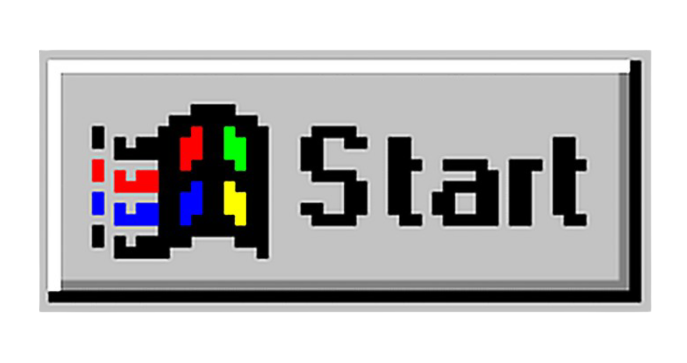
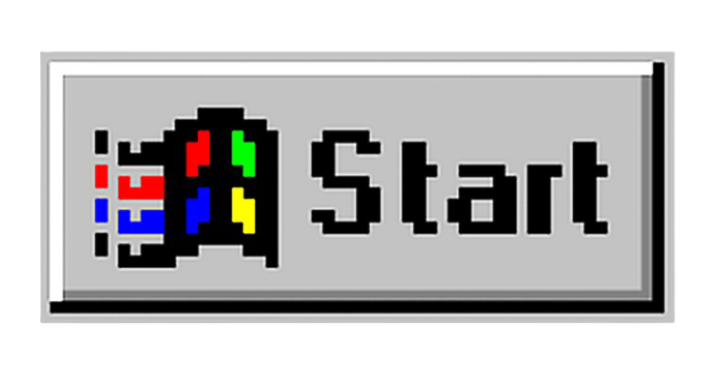
taskbar fini

Changed region(s): [[0.2751, 0.4242, 0.3057, 0.4545], [0.214, 0.6364, 0.2445, 0.6667], [0.1834, 0.5758, 0.214, 0.6061]]

diff --git a/index.html b/index.html
@@ -9,64 +9,81 @@
 </head>
 <body>
 
-  <!-- Desktop -->
+    <!-- Desktop -->
     <div class="desktop">
 
-        <!-- Icons on the desktop -->
         <section>
+                 <!-- Icons on the desktop -->
+                
 
-            <div>
-                <a href="#presentation"><img src="images/icons8-user-female-skin-type-7-48.png" alt=""></a>
-                <br>
-                <br>
-                <span>Présentation</span>
-                </div>  
+                    <div>
+                        <a href=""><img src="images/icons8-user-female-skin-type-7-48.png" alt=""></a>
+                        <h4>Me</h4>
+                       </div>
+                        
+                    </div>  
                 
                 <div>
-                <a href="#myskills"><img src="images/icons8-skills-64.png" alt=""></a>
-                <br>
-                <span>My Skills</span>
+                    <a href=""><img src="images/icons8-skills-64.png" alt=""></a>
+                    <h4>My Skills</h4>
                 </div>
     
     
                 <div>
-                <a href="#passions"><img src="images/icons8-activity-feed-48.png" alt=""></a>
-                <br>
-                <br>
-                <span>Passions</span>
+                    <a href=""><img src="images/icons8-activity-feed-48.png" alt=""></a>
+                    <h4>Hobbies</h4>
                 </div>
     
     
                 <div>
-                <a href="#contacts"><img src="images/icons8-contact-64.png" alt=""></a>
-                <br>
-                <br>
-                <span>Contacts</span>
+                    <a href=""><img src="images/icons8-contact-64.png" alt=""></a>
+                    <h4>Contacts</h4>
                 </div>
+
+                <!-- End Icons on the desktop -->
+
 
         </section>
 
+    <!-- End Desktop -->
 
 
+
+    <!-- Taskbar -->
 
     <div class="taskbar">
 
-
-
         <div>
-            <a href=""><img src="images/windows98-button-removebg-preview.png" alt="" width="90px"></a>
+            <img class="start-img" src="images/logo-start-windows.png" alt="" >
         </div>
 
+
         <div>
+            <h3> TECH IS FOR COOL KIDS </h3>
+        </div>
+
+        <div class="hours-date">
             <span>23:50</span>
-        </div>
-
-        <div>
+            <br>
             <span> 04/10/2022</span>
-        </div>   
+        </div>
 
     </div>
 
+    <!-- End taskbar -->
+
+
+     <!-- Background -->
+  
+
+   <!--
+     <div class="box"> 
+
+     </div>
+
+     <div class="background"></div>
+  
+    --> 
 
 
 

diff --git a/css/style.css b/css/style.css
@@ -19,8 +19,25 @@
     background-size: cover;
   }
 
-  span{
-      font-size: large;
+
+  div{
+      text-align: center;
+  }
+
+
+  h4{
+      border: 3px solid black;
+  }
+  button{
+    height: 49px;
+    width: 100px;
+    right: 59px;
+  }
+
+  .start-img{
+    width: 48px;
+   
+
   }
   section{
     padding-top: 200px;
@@ -31,8 +48,6 @@
     grid-template-rows: 10vh 10vh 10vh 10vh;
 
   }
-
-
 
   /* ==========================================================================
     ICONS
@@ -51,9 +66,12 @@ div:nth-of-type(2){
 }
 
 div:nth-of-type(3){
-  grid-column: 4/5;
-  grid-column: -5/4;  
+  grid-column: 4/5; 
+  grid-row: 1/2;
 }
+
+
+
 
 
 
@@ -65,7 +83,7 @@ div:nth-of-type(3){
 .taskbar {
   position: absolute;
   bottom: 0;
-  height: 43px;
+  height: 53px;
   width: 100%;
   background: #9fa5a9;
   display: flex;
@@ -75,11 +93,71 @@ div:nth-of-type(3){
 } 
 
 
+.hours-date{
+  border: 0.5px solid black;  
+}
 
 
 
+  /* ==========================================================================
+   BACKGROUND
+========================================================================== */
 
 
+.box {
+  position: relative;
+  width: 200px;
+  height: 200px;
+  background: white;
+  transition: all 0.5s;
+  z-index: 2;
+  padding: 30px;
+}
+
+
+.box p {
+  margin: 0;
+  padding: 10px;
+  font-size: 1.2rem;
+}
+
+.box h2 {
+  position: absolute;
+  margin: 0;
+  padding: 0;
+  bottom: 30px;
+  right: 30px;
+  font-size: 1.5rem;
+}
+
+
+.box:hover {
+  color: #f2f2f2;
+  box-shadow: 20px 50px 100px rgba(0, 0, 0, 0.5);
+}
+
+
+.background {
+  position: absolute;
+  top: 0;
+  left: 0;
+  z-index: 1;
+  opacity: 0;
+  transition: all 0.5s;
+  width: 100%;
+  height: 100%;
+}
+
+.box:hover, .box:hover ~ .background {
+  opacity: 1;
+  background: #e2a9e5;
+  background: -moz-linear-gradient(-45deg, 
+  #e2a9e5 15%, #2b94e5 100%);
+  background: -webkit-linear-gradient(-45deg, 
+  #e2a9e5 15%,#2b94e5 100%);
+  background: linear-gradient(-45deg, #e2a9e5
+ 15%,#2b94e5 100%);
+}
 
 
 
